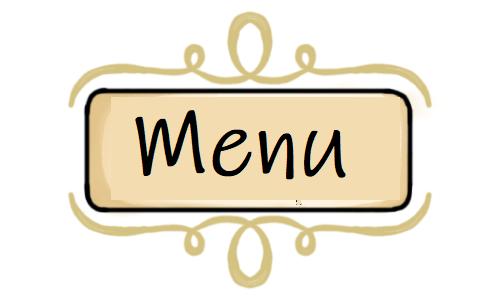
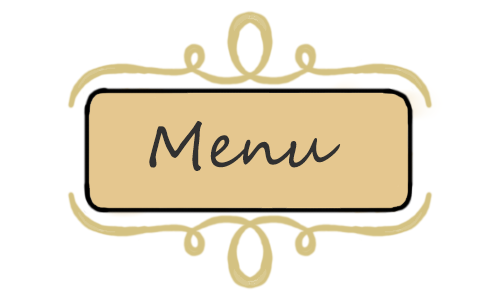
ADDED: MenuIngame
Añadido el menu ingame, sus botones y los eventos necesarios para la gestión de sus acciones.

Para cargar el menu ingame NO SE CARGA una nueva escena, se ha intentado hacer con una nueva escena pero se complica para restaurar los objetos devido a que la restauración por swapScenes no funciona en esta versión de Phaser por lo que he optado por hacerlo de forma manual.

Changed region(s): [[0.18, 0.3, 0.81, 0.72]]

diff --git a/videogame/game.js b/videogame/game.js
@@ -2,10 +2,13 @@ import Torre from './src/torre.js';
 import Base from './src/base.js';
 import Enemigo from './src/enemigo.js';
 import Nucleo from './src/nucleo.js';
+import MenuPausa from './src/menuPausa.js';
+import {getBotonMenu} from './src/menuPausa.js';
+import {getBotonVolver} from './src/menuPausa.js';
 import {getNivelActual} from './src/mapa.js';
-import {setPauseEnemigo} from './src/enemigo.js';
-import {setPauseUnidad} from './src/unidades/unidad.js';
-import {setPauseTorre} from './src/torre.js';
+import {switchPauseEnemigo} from './src/enemigo.js';
+import {switchPauseUnidad} from './src/unidades/unidad.js';
+import {switchPauseTorre} from './src/torre.js';
 import UnidadLigera from "./src/unidades/unidadLigera.js";
 import UnidadMedia from "./src/unidades/unidadMedia.js";
 import UnidadPesada from "./src/unidades/unidadPesada.js";
@@ -17,13 +20,11 @@ const costeTorreB = 200; //COSTE DE AUMENTAR A TORRE_B
 const costeTorreAA = 120; //COSTE DE MEJORAR LA TORRE_A
 const costeTorreBB = 150; //COSTE DE MEJORAR LA TORRE_B
 
-let partidaPausada;
-
 export default class Game extends Phaser.Scene {
   constructor() {
     super({ key: 'main' });
     this.nivel = 1;
-    partidaPausada = false;
+    this.partidaPausada = false;
   }
   
   preload() {  
@@ -49,7 +50,15 @@ export default class Game extends Phaser.Scene {
     this.load.image("barraunidadLigera", "./assets/best1.png");
     this.load.image("barraUnidadMedia", "./assets/best2.png");
     this.load.image("barraUnidadPesada", "./assets/best3.png");
-    this.load.image('menuImage', "./assets/menuPulsado.png", 270, 180);
+    this.load.image('menu0', "./assets/Menu.png");
+    this.load.image("menu1", "./assets/MenuMarcado.png");
+    this.load.image("menu1", "./assets/MenuPulsado.png");
+    this.load.image("reiniciar0", "./assets/ReiniciarBase.png");
+    this.load.image("reiniciar1", "./assets/ReiniciarMarcado.png");
+    this.load.image("reiniciar2", "./assets/ReiniciarPulsado.png");
+    this.load.image("volver0", "./assets/VolverBase.png");
+    this.load.image("volver1", "./assets/VolverMarcado.png");
+    this.load.image("volver2", "./assets/VolverPulsado.png");
   }
 
   create() {
@@ -86,9 +95,6 @@ export default class Game extends Phaser.Scene {
     //this.mapasSinCompletar = this.add.group();
 
     this.cargaNivel();  //CARGA LOS DATOS SEGÚN EL NIVEL A JUGAR
-
-    //CREACION DE MENÚ
-
 
     //CREACIÓN DE TORRES
     this.bases.children.iterate(item => {
@@ -127,9 +133,14 @@ export default class Game extends Phaser.Scene {
     this.add.image(120, 65, "barraOleada").setScale(1.15);
     this.oled = this.add.text(122, 50, this.numOleada + "/4", { font: "40px Courier", fill: "#FFFFFF"});
     
-    //MENU    
-    this.menuPause = this.add.image(1200, 710, "menuImage").setScale(0.3).setInteractive();
-    this.cargaMenuPausa(this.menuPause);
+    //MENU   
+    this.menuPause;
+    this.fondoMenuPausa;
+    this.menuPausaBotonVolver;
+    this.menuPausaBotonMenu;
+    this.partidaPausada = false;
+    this.botonPausa = this.add.image(1200, 710, "menu0").setScale(0.6).setInteractive();    
+    this.cargaMenuPausa(this.botonPausa);
    }
   
   update(time, delta) { 
@@ -218,7 +229,7 @@ export default class Game extends Phaser.Scene {
           this.tiempoEnem = Phaser.Math.Between(100, 3000);
         }
       }
-      else{  this.tiempoUltEnem += delta;  }
+      else if(!this.partidaPausada) { this.tiempoUltEnem += delta;  }
 
       //GENERACIÓN DE UNIDADES
       if (!this.unidCargada) {
@@ -226,22 +237,81 @@ export default class Game extends Phaser.Scene {
         else {  this.tiempoUltUnid += delta;  }
         this.barraTiempoUnid();
       }
-    }     
+    }else{
+      // ACTUALIZACION BOTONES
+      //BOTÓN PARA VOLVER AL MAPA
+      if(this.menuPausaBotonMenu != undefined){        
+        this.menuPausaBotonMenu.on('pointerover', pointer => {
+            this.menuPausaBotonVolver.destroy();
+            this.menuPausaBotonMenu.destroy();
+            this.menuPausaBotonVolver = this.add.image(515, 380, "reiniciar0").setScale(0.7).setInteractive();
+            this.menuPausaBotonMenu = this.add.image(885, 380, "volver1").setScale(0.7).setInteractive();
+            this.menuPausaBotonMenu.on('pointerdown', pointer => {
+                this.menuPausaBotonMenu.destroy();
+                this.menuPausaBotonMenu = this.add.image(885, 380, "volver2").setScale(0.7).setInteractive();
+                this.menuPausaBotonMenu.on('pointerup', pointer => { 
+                    //DEVOLVEMOS LOS OBJETOS A SU ESTADO NATURAL
+                    switchPauseUnidad();
+                    switchPauseEnemigo();  
+                    switchPauseTorre();
+                    console.log("Pausa off. Saliendo del menu pausa.");
+                    //QUITAMOS EL PAUSE DE LA PARTIDA
+                    this.partidaPausada = !this.partidaPausada;
+                    //CARGAMOS LA ESCENA DE MAPA
+                    this.scene.start("Mapa");       
+                  });
+              });
+        });
+      }
+      //BOTÓN PARA VOLVER A LA PARTIDA
+      if(this.menuPausaBotonVolver != undefined){
+        
+        this.menuPausaBotonVolver.on('pointerover', pointer => {
+            this.menuPausaBotonVolver.destroy();
+            this.menuPausaBotonMenu.destroy();
+            this.menuPausaBotonVolver = this.add.image(515, 380, "reiniciar1").setScale(0.7).setInteractive();
+            this.menuPausaBotonMenu = this.add.image(885, 380, "volver0").setScale(0.7).setInteractive();
+            this.menuPausaBotonVolver.on('pointerdown', pointer => {
+                this.menuPausaBotonVolver.destroy();
+                this.menuPausaBotonVolver = this.add.image(515, 380, "reiniciar2").setScale(0.7).setInteractive();
+                this.menuPausaBotonVolver.on('pointerup', pointer => {  
+                  //CERRAMOS EL MENU 
+                  this.fondoMenuPausa.destroy();
+                  this.menuPausaBotonVolver.destroy();
+                  this.menuPausaBotonMenu.destroy(); 
+                  this.partidaPausada = !this.partidaPausada; 
+                  //ORDENAMOS A LOS OBJETOS QUE SE REANUDEN
+                  switchPauseUnidad();
+                  switchPauseEnemigo();  
+                  switchPauseTorre(); 
+                  console.log("Pausa off. Saliendo del menu pausa.");
+                });
+            });
+        });
+      }
+    }
   }
 
-  cargaMenuPausa(menuPause){
-      menuPause.on('pointerdown', pointer => {      
-        if(!this.partidaPausada){
-          setPauseUnidad();
-          setPauseEnemigo();  
-          setPauseTorre();         
-          console.log("Partida pausada");
-        }else if(this.partidaPausada){
-           this.partidaPausada = false;
-          console.log("Partida no pausada");
-        }   
+  //BOTON MENU INGAME
+  cargaMenuPausa(botonPausa){
+      botonPausa.on('pointerdown', pointer => {  
+        //PAUSAMOS PARTIDA
+        this.partidaPausada = !this.partidaPausada; 
 
-        //menuPause.destroy();     
+        //this.scene.pause('main');
+        //this.menuPause = new MenuPausa(this);
+        //ORDENAMOS A LAS OBJETOS QUE PAREN
+        switchPauseUnidad();
+        switchPauseEnemigo();  
+        switchPauseTorre();  
+        //ABRIMOS EL MENU   
+        this.fondoMenuPausa  = this.add.image(0, 0, "fondoCols").setOrigin(0);
+        this.menuPausaBotonMenu  = this.add.image(515, 380, "reiniciar0").setScale(0.7).setInteractive();
+        this.menuPausaBotonVolver = this.add.image(885, 380, "volver0").setScale(0.7).setInteractive(); 
+              
+        console.log("Pausa on. Abriendo menu pausa.");
+     
+        //else this.scene.resume('main');     
     });
   }
 
@@ -300,7 +370,6 @@ export default class Game extends Phaser.Scene {
       }
       this.invocarUnidad(this.unid, tipo, casilla);
     }
-
   }
   
   //INVOCA UNA UNIDAD AL SELECCIONARLA EN LA BARRA DE UNIDADES SI ESTÁ CARGADA

diff --git a/videogame/src/menuPausa.js b/videogame/src/menuPausa.js
@@ -1,0 +1,26 @@
+let botonPausaVolver;
+let botonPausaMenu;
+
+export default class MenuPausa extends Phaser.GameObjects.Sprite {
+    constructor(escene) {  
+        super(escene);      
+        this.game = escene;     
+        this.createMenu();
+    }
+
+    createMenu() {      
+        this.game.add.image(0, 0, "fondoCols").setOrigin(0);
+        botonPausaMenu  = this.game.add.image(515, 380, "reiniciar0").setScale(0.7).setInteractive();
+        botonPausaVolver = this.game.add.image(885, 380, "volver0").setScale(0.7).setInteractive();        
+    }  
+    onDestroy(){
+        botonPauseMenu.destroy();
+        botonPausaVolver.destroy();
+    }
+}
+export function getBotonMenu(){    
+    return botonPausaMenu;
+}
+export function getBotonVolver(){
+    return botonPausaVolver;
+}

diff --git a/videogame/src/enemigo.js b/videogame/src/enemigo.js
@@ -90,7 +90,7 @@ export default class Enemigo extends GameObjectsGO {
     } 
 }
 
-export function setPauseEnemigo(){
+export function switchPauseEnemigo(){
     if(pause) pause = false;
     else pause = true;
     console.log("Enemigos pausados");

diff --git a/videogame/src/unidades/unidad.js b/videogame/src/unidades/unidad.js
@@ -103,7 +103,7 @@ export default class Unidad extends GameObjectsGO {
     }
 }
 
-export function setPauseUnidad(p){
+export function switchPauseUnidad(p){
     if(pause) pause = false;
     else pause = true;
     console.log("Unidades pausadas");

diff --git a/videogame/src/torre.js b/videogame/src/torre.js
@@ -71,7 +71,7 @@ export default class Torre extends GameObjectsGO {
     }
 }
 
-export function setPauseTorre(){
+export function switchPauseTorre(){
     if(pause) pause = false;
     else pause = true;
     console.log("Torres pausadas");
